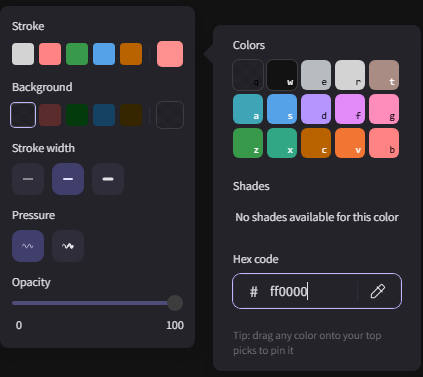
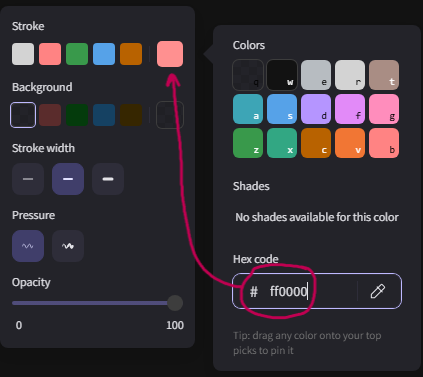
readme

diff --git a/README.md b/README.md
@@ -5,41 +5,66 @@ your own color palette, and a toolbar with only the tools you want to use
 
 ### Problems
 
-I use Excalidraw in dark mode constantly, but dark mode doesn't give you the colors you pick. Here's 
-#ff0000 selected as my pencil color:
+I always use Excalidraw in dark mode, but the issue is that dark mode doesn't give you the colors you actually want to pick. For example, here's `#ff0000` selected as my pencil color:
 
 ![](assets/red_in_dark_mode.png)
 
-It should actually look like this:
+This is what `#ff0000` actually looks like:
 
 ![](assets/true_red.png)
 
 This is because Excalidraw’s dark mode doesn’t use actual dark colors. 
 It runs every color through an invert-and-hue-rotate filter, which then washes saturated colors out. 
-Pure red `#ff0000` renders as salmon pink `#ff9090` and no input color produces a true bright red.
+Pure red `#ff0000` renders as salmon pink `#ff9090` and no input color produces a true bright red
+
+Lots of people seem to dislike this! (credits for screenshot: [@skeary](https://github.com/skearya))
+
+
+![](assets/we_all_hate_this.png)
+
+
+### Current Workaround
 
 The workaround is to use Light mode and set the canvas background to black:
 
 ![](assets/light_mode_plus_black_bg.png)
 
 That fixes the colors, but creates two new problems:
-- The default colors are useless on black. Excalidraw doesn't let you change its pinned colors, so if the only colors you want are red, blue, green, pink and orange, you're stuck re-picking them by hand every time
-- The UI is now blindingly bright next to a black canvas.
+- The first default color is black, which is useless on a black background. The issue is that Excalidraw doesn't let you change its pinned colors, so if the only colors you want are white, 
+red, blue, and green, you're stuck re-picking them by hand over and over
+- The Excalidraw UI is now blindingly bright compared to the black canvas
 
-And an unrelated third one, the toolbar.
+And an unrelated, but also frustrating third problem, the toolbar!
 
 ![](assets/toolbar.png)
 
-I've used Excalidraw for years and never touched half of those tools. They're just clutter.
+I've used Excalidraw for years and never touched half of those tools. They're just in the way
 
 
-### What the extension does 
+### So what the extension does do
 - Your own pinned colors for stroke and background, as many as you want (they wrap onto extra rows)
-- Dark interface in light mode: dark toolbar and panels while the canvas keeps true colors.
+- Dark interface in light mode: dark toolbar and panels while the canvas keeps true colors
 - Toolbar control: hide tools you don't need and pin tools you do
-- Custom shortcuts: remap any tool, including several keys for a tool.
+- Custom shortcuts: remap any tool, including several keybinds for a tool
 
-![](assets/extension.png)
+![](assets/extension_1.png)
+![](assets/extension_2.png)
+
+### Before Extension
+
+![](assets/before.png)
+
+### After Extension
+
+![](assets/after.png)
+
+Key changes are 
+
+1. The UI being dark WITH the dark theme
+2. 10 pinned colors for easy access
+3. Cleaned up toolbar
+
+Much better!
 
 ### Setup
 
@@ -53,8 +78,9 @@ Then:
 1. Open (or refresh) [excalidraw.com](https://excalidraw.com) so the extension can read the toolbar 
 2. Click the extension's icon to open the settings page and set things up 
 
-**For true colors**: keep Excalidraw in **light mode**, set the canvas color from `Canvas background` 
-to something dark like `#121212`, and enable **Dark interface in light mode** in the settings
+**For getting true colors on dark mode**: keep Excalidraw in **light mode**, set the canvas color from `Canvas background` 
+to something dark like `#121212`, and enable **Dark interface in light mode** in the 
+extension settings
 
 ### Updating
 
@@ -65,7 +91,8 @@ git pull
 Then hit the reload arrow on Excalidraw Tweaks in `chrome://extensions` and refresh Excalidraw. Your settings stay, as long as you don't remove the extension. Export them from the settings page anyway, just in case.
 
 
-### Heads up: this is fragile
+
+### Warning: this is fragile
 
 This is not built on an official API. It hooks into excalidraw.com's internal UI and app state, so an Excalidraw update can break parts of it at any time.
 
